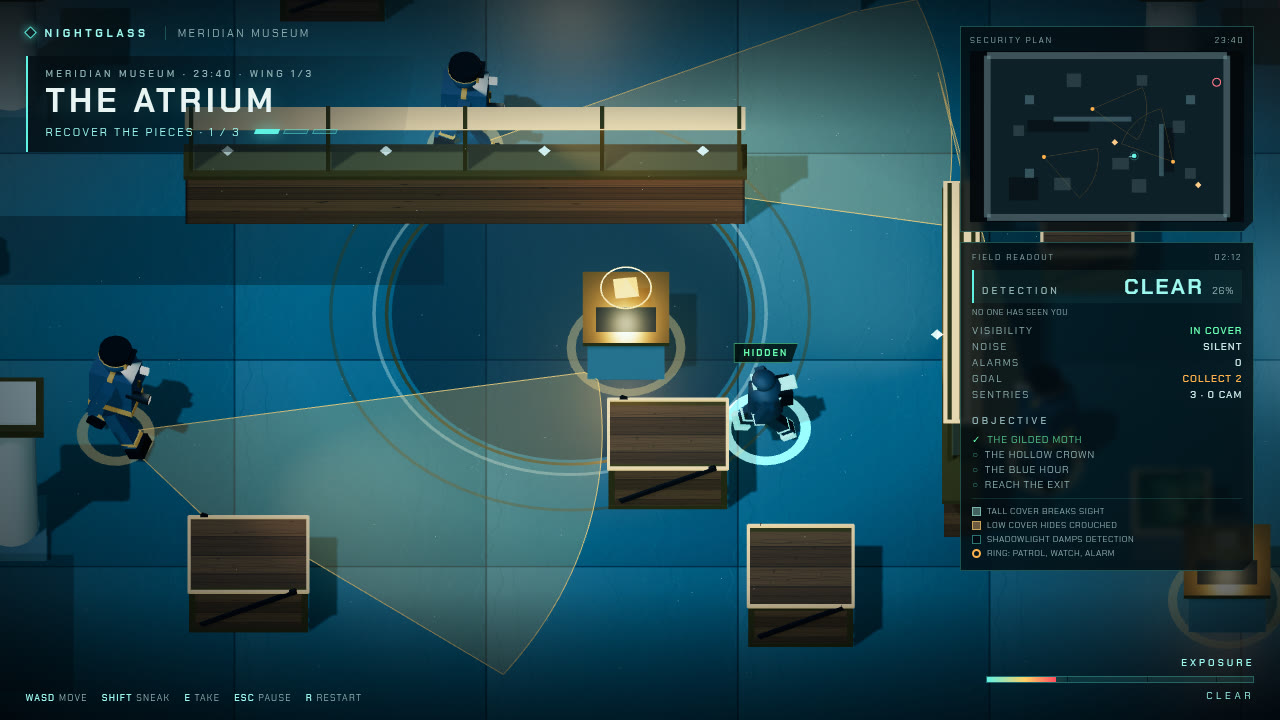
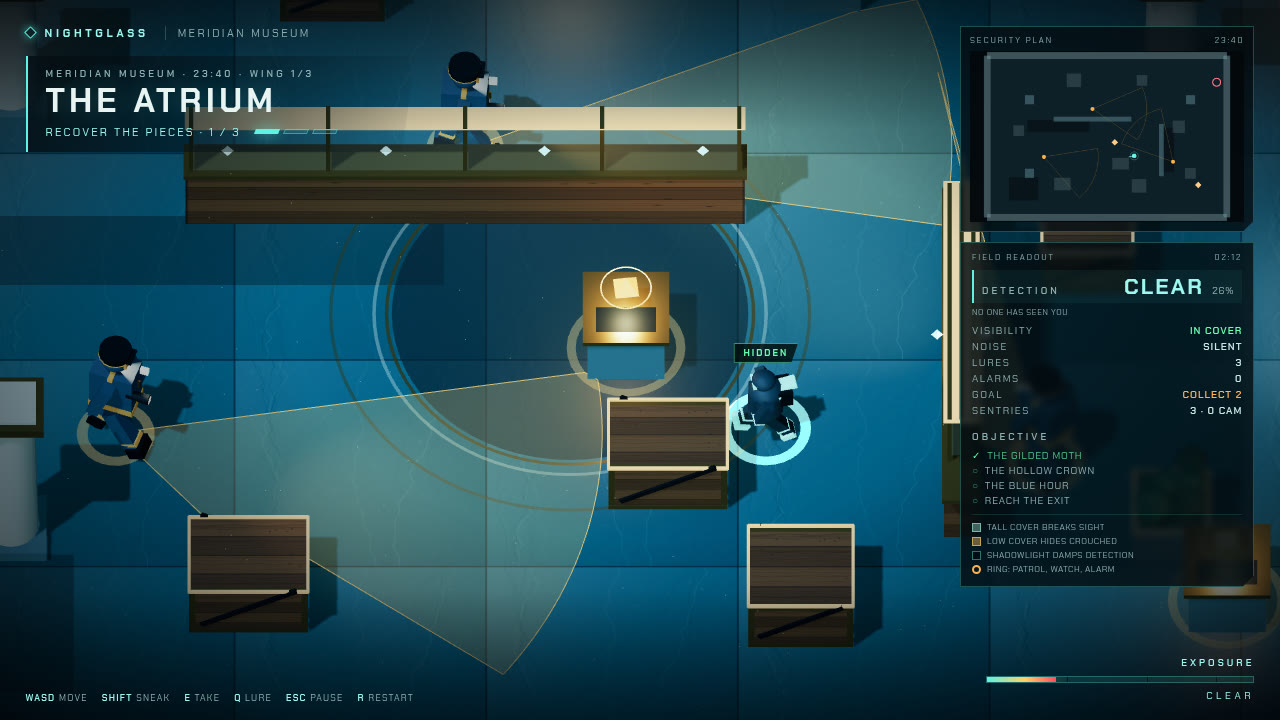
Bring the noise lure into the readable build

Changed region(s): [[0.75, 0.4889, 1.0, 0.825], [0.1875, 0.9472, 0.3125, 0.9778], [0.9062, 0.5194, 0.9688, 0.5806]]

diff --git a/game/src/main.js b/game/src/main.js
@@ -14,6 +14,7 @@ import { Player } from './player.js';
 import { Guard, SecurityCamera } from './guard.js';
 import { Footprints, ShardBursts } from './effects.js';
 import { stageShot } from './shots.js';
+import { LureManager } from './lures.js';
 
 const canvas = document.getElementById('game');
 const renderer = new THREE.WebGLRenderer({ canvas, antialias: true, powerPreference: 'high-performance' });
@@ -38,6 +39,7 @@ let level = null;
 let player = null;
 let guards = [];
 let cameras = [];
+let lures = null;
 let levelIndex = 0;
 let mode = 'title';
 let levelTime = 0;
@@ -68,10 +70,12 @@ function disposeWorld() {
   if (player) player.dispose(scene);
   for (const guard of guards) guard.dispose(scene);
   for (const camera of cameras) camera.dispose(scene);
+  if (lures) lures.dispose();
   if (level) level.dispose();
   player = null;
   guards = [];
   cameras = [];
+  lures = null;
   level = null;
 }
 
@@ -90,7 +94,21 @@ function loadLevel(index) {
     camera.onAlarm = registerCameraAlarm;
     return camera;
   });
+  lures = new LureManager(scene, (x, z) => {
+    audio.lurePing();
+    hud.toast('LURE PING · A GUARD IS COMING TO LOOK', 2.4);
+    for (const guard of guards) {
+      const heard = Math.hypot(guard.position.x - x, guard.position.z - z);
+      if (heard > 6.5) continue;
+      guard.lastSeen = { x, z };
+      guard.awareness = Math.max(guard.awareness, 0.45);
+      guard.investigateTimer = 6.5;
+      if (guard.state === 'patrol' || guard.state === 'suspect') guard.state = 'investigate';
+      guard.paintCone();
+    }
+  });
   level.setExitUnlocked(false);
+  hud.setLures(player.lures);
   levelTime = 0;
   levelAlarms = 0;
   exposure = 0;
@@ -218,6 +236,25 @@ function getCaught() {
   hud.announce('Caught. Try the wing again.');
 }
 
+function throwLure() {
+  if (mode !== 'play' || !level) return;
+  if (player.lures <= 0) {
+    hud.toast('NO LURES LEFT · FINISH THE WING QUIETLY', 1.8);
+    return;
+  }
+  let x = player.position.x + Math.cos(player.facing) * 2.4;
+  let z = player.position.z + Math.sin(player.facing) * 2.4;
+  if (level.collides(x, z, 0.18) || x < 0.5 || z < 0.5 || x > level.data.size.w - 0.5 || z > level.data.size.d - 0.5) {
+    x = player.position.x + Math.cos(player.facing) * 1.1;
+    z = player.position.z + Math.sin(player.facing) * 1.1;
+  }
+  player.lures -= 1;
+  hud.setLures(player.lures);
+  lures.throwAt(x, z);
+  audio.lure();
+  hud.toast('LURE OUT · LISTEN FOR THE PING', 1.8);
+}
+
 function tryInteract() {
   if (mode !== 'play' || !level) return;
   const relic = level.relicNear(player.position.x, player.position.z, 1.45);
@@ -297,6 +334,7 @@ function ambientStep(dt) {
   level.update(dt);
   footprints.update(dt);
   bursts.update(dt);
+  if (lures) lures.update(dt);
 }
 
 function drawMinimap() {
@@ -321,6 +359,7 @@ function updateReadout() {
     concealed,
     moving: player.speed > 0.25,
     crouching: player.crouching,
+    lures: player.lures,
     alarms: levelAlarms,
     time: formatTime(levelTime),
     relicsTaken: taken,
@@ -431,6 +470,7 @@ function onKeyDown(event) {
     if (mode === 'play') pauseGame();
     else if (mode === 'pause') resumeGame();
   } else if (event.code === 'KeyE') tryInteract();
+  else if (event.code === 'KeyQ') throwLure();
   else if (event.code === 'KeyR') {
     if (mode === 'play' || mode === 'pause' || mode === 'caught') restartWing();
   }

diff --git a/game/src/lures.js b/game/src/lures.js
@@ -1,0 +1,73 @@
+// The noise lure: a small brass token thrown ahead. It pings once, and any guard
+// close enough walks over to the sound instead of holding the route. This is the
+// thief's one gadget: three per wing, no alarm unless a guard walks into you.
+
+import * as THREE from '../vendor/three.module.min.js';
+
+const PING_AT = 0.45;
+const LIFE = 2.6;
+
+export class LureManager {
+  constructor(scene, onPing) {
+    this.scene = scene;
+    this.onPing = onPing;
+    this.items = [];
+    this.coinMaterial = new THREE.MeshStandardMaterial({ color: '#ffd166', emissive: '#ffb24d', emissiveIntensity: 1.7, metalness: 0.65, roughness: 0.3 });
+    this.ringMaterial = new THREE.MeshBasicMaterial({ color: '#ffd166', transparent: true, opacity: 0.5, depthWrite: false, side: THREE.DoubleSide });
+  }
+
+  throwAt(x, z) {
+    const group = new THREE.Group();
+    const coin = new THREE.Mesh(new THREE.CylinderGeometry(0.12, 0.12, 0.035, 14), this.coinMaterial);
+    coin.rotation.z = Math.PI / 2;
+    coin.position.y = 0.09;
+    coin.castShadow = true;
+    group.add(coin);
+    const ring = new THREE.Mesh(new THREE.RingGeometry(0.18, 0.24, 28), this.ringMaterial.clone());
+    ring.rotation.x = -Math.PI / 2;
+    ring.position.y = 0.025;
+    group.add(ring);
+    const halo = new THREE.Mesh(new THREE.RingGeometry(0.05, 0.07, 20), this.ringMaterial.clone());
+    halo.rotation.x = -Math.PI / 2;
+    halo.position.y = 0.03;
+    group.add(halo);
+    group.position.set(x, 0, z);
+    this.scene.add(group);
+    this.items.push({ group, coin, ring, halo, time: 0, pinged: false });
+  }
+
+  update(dt) {
+    for (let index = this.items.length - 1; index >= 0; index -= 1) {
+      const item = this.items[index];
+      item.time += dt;
+      item.coin.rotation.y += dt * 4.2;
+      item.coin.position.y = 0.09 + Math.abs(Math.sin(item.time * 6)) * 0.06;
+      const pulse = 1 + Math.sin(item.time * 10) * 0.12;
+      item.ring.scale.setScalar(pulse);
+      if (!item.pinged && item.time >= PING_AT) {
+        item.pinged = true;
+        item.ring.scale.setScalar(1.8);
+        if (this.onPing) this.onPing(item.group.position.x, item.group.position.z);
+      }
+      if (item.time > LIFE) {
+        this.scene.remove(item.group);
+        item.group.traverse((object) => {
+          if (object.geometry) object.geometry.dispose();
+          if (object.material && object.material !== this.coinMaterial) object.material.dispose();
+        });
+        this.items.splice(index, 1);
+      }
+    }
+  }
+
+  dispose() {
+    for (const item of this.items) {
+      this.scene.remove(item.group);
+      item.group.traverse((object) => {
+        if (object.geometry) object.geometry.dispose();
+        if (object.material && object.material !== this.coinMaterial) object.material.dispose();
+      });
+    }
+    this.items = [];
+  }
+}

diff --git a/game/src/hud.js b/game/src/hud.js
@@ -27,6 +27,7 @@ export function createHud() {
   const intelTime = element('intel-time');
   const intelHint = element('intel-hint');
   const intelGoal = element('intel-goal');
+  const intelLures = element('intel-lures');
   const objectives = element('intel-objectives');
   const coverTag = element('cover-tag');
   let toastTimer = 0;
@@ -96,7 +97,12 @@ export function createHud() {
       intelHint.classList.toggle('spot', tier === 'spot');
     },
 
-    setIntel({ concealed, moving, crouching, alarms, time, relicsTaken, total, exitUnlocked }) {
+    setLures(count) {
+      intelLures.textContent = String(count);
+      intelLures.classList.toggle('exposed', count === 0);
+    },
+
+    setIntel({ concealed, moving, crouching, lures, alarms, time, relicsTaken, total, exitUnlocked }) {
       intelGoal.textContent = exitUnlocked ? 'EXIT OPEN' : `COLLECT ${total - relicsTaken}`;
       intelGoal.classList.toggle('hidden', exitUnlocked);
       intelGoal.classList.toggle('exposed', !exitUnlocked);
@@ -104,6 +110,7 @@ export function createHud() {
       intelVisibility.classList.toggle('hidden', concealed);
       intelVisibility.classList.toggle('exposed', !concealed);
       intelNoise.textContent = crouching ? 'SILENT' : moving ? 'FOOTSTEPS' : 'STILL';
+      intelLures.textContent = String(lures);
       intelAlarms.textContent = String(alarms);
       intelTime.textContent = time;
       const entries = objectives.children;

diff --git a/game/index.html b/game/index.html
@@ -44,6 +44,7 @@
         <div class="intel-rows">
           <div><span>VISIBILITY</span><b id="intel-visibility">IN COVER</b></div>
           <div><span>NOISE</span><b id="intel-noise">SILENT</b></div>
+          <div><span>LURES</span><b id="intel-lures">3</b></div>
           <div><span>ALARMS</span><b id="intel-alarms">0</b></div>
           <div><span>GOAL</span><b id="intel-goal">COLLECT 3</b></div>
           <div><span>SENTRIES</span><b id="intel-sentries">0 · 0 CAM</b></div>
@@ -77,6 +78,7 @@
     <span><b>WASD</b> move</span>
     <span><b>SHIFT</b> sneak</span>
     <span><b>E</b> take</span>
+    <span><b>Q</b> lure</span>
     <span><b>ESC</b> pause</span>
     <span><b>R</b> restart</span>
   </div>
@@ -100,6 +102,7 @@
         <div><b>WASD</b><span>Move through the galleries</span></div>
         <div><b>SHIFT</b><span>Sneak: slower, quieter, harder to see</span></div>
         <div><b>E</b><span>Take a relic or enter the exit</span></div>
+        <div><b>Q</b><span>Throw a noise lure; three per wing</span></div>
         <div><b>ESC</b><span>Pause · <b>R</b> restart the wing</span></div>
         <p>Guards see along their amber cones. Break the line of sight behind tall cover, crouch behind low crates, and keep out of the pale pools of shadowlight. If a guard fills the alarm, run — the hunt cools after a while.</p>
       </div>

diff --git a/game/src/guard.js b/game/src/guard.js
@@ -98,6 +98,7 @@ export class Guard {
     this.lastSeen = null;
     this.alarmTimer = 0;
     this.searchTimer = 0;
+    this.investigateTimer = 0;
     this.phase = index * 1.7;
     this.stepPhase = 0;
     this.moveSpeed = 0;
@@ -191,6 +192,15 @@ export class Guard {
         }
       }
       if (this.alarmTimer <= 0) this.state = 'return';
+    } else if (this.state === 'investigate') {
+      this.investigateTimer -= dt;
+      if (this.lastSeen && distance(this.position.x, this.position.z, this.lastSeen.x, this.lastSeen.z) > 0.5) {
+        this.walkToward(this.lastSeen.x, this.lastSeen.z, GUARD.patrolSpeed * 1.6, dt);
+      } else {
+        this.state = 'search';
+        this.searchTimer = GUARD.searchTime;
+      }
+      if (this.investigateTimer <= 0) this.state = 'return';
     } else if (this.state === 'search') {
       this.searchTimer -= dt;
       this.facing = turnToward(this.facing, this.facing + Math.sin(this.phase + this.searchTimer * 2.2) * 0.9, 2.4 * dt);

diff --git a/game/src/audio.js b/game/src/audio.js
@@ -154,6 +154,15 @@ export class AudioEngine {
     this.tone(880, 0.05, { type: 'square', volume: 0.03 });
   }
 
+  lure() {
+    this.noise(0.12, 0.035, 1400);
+  }
+
+  lurePing() {
+    this.tone(1180, 0.22, { type: 'triangle', volume: 0.07, slide: 1560 });
+    setTimeout(() => this.tone(880, 0.18, { type: 'sine', volume: 0.05 }), 80);
+  }
+
   heartbeat(dt, intensity) {
     this.heartbeatRate = intensity;
     if (intensity <= 0.05) return;

diff --git a/game/src/player.js b/game/src/player.js
@@ -18,6 +18,7 @@ export class Player {
     this.stepPhase = 0;
     this.speed = 0;
     this.noise = 0;
+    this.lures = 3;
     this.radius = PLAYER.radius;
     this.stepTimer = 0;
     this.concealed = false;

diff --git a/README.md b/README.md
@@ -16,13 +16,14 @@ Then open <http://localhost:8080>. The game itself is plain static files under `
 
 ## The heist
 
-Three wings — the Atrium, the Long Gallery and the Vault — each with its own patrols, cover and security cameras. Guards carry flashlight cones stopped by walls and cover. Crouching shrinks your silhouette, quiets your footsteps and lets a low crate hide you; tall plinths, shelves and display cases hide you standing. If a cone fills, the alarm spreads: break line of sight, wait for the search to cool, and the patrols return to their rounds.
+Three wings — the Atrium, the Long Gallery and the Vault — each with its own patrols, cover and security cameras. Guards carry flashlight cones stopped by walls and cover. Crouching shrinks your silhouette, quiets your footsteps and lets a low crate hide you; tall plinths, shelves and display cases hide you standing. A thrown noise lure pulls a patrol off its round to investigate, and the field readout tracks detection, noise, lures and the guard rings. If a cone fills, the alarm spreads: break line of sight, wait for the search to cool, and the patrols return to their rounds.
 
 | Key | Action |
 | --- | --- |
 | `WASD` / arrows | Move |
 | `Shift` | Sneak |
 | `E` | Take a relic, or enter the exit |
+| `Q` | Throw a noise lure (three per wing) |
 | `Esc` | Pause |
 | `R` | Restart the wing |
 
@@ -34,6 +35,7 @@ Take all three relics in a wing to unlock its exit. Alarm-raising guards, camera
 - `game/src/level-data.js` — three heists as data: walls, cover, relics, patrol routes, cameras.
 - `game/src/level.js`, `vision.js`, `guard.js`, `player.js` — geometry, line-of-sight cones, patrol/alarm behaviour and movement.
 - `game/src/models.js`, `materials.js` — every wall, figure, relic and texture, built from code.
+- `game/src/lures.js` — the thrown noise lure and its ping.
 - `game/src/hud.js`, `effects.js`, `audio.js`, `camera.js` — overlay, feedback, WebAudio and the isometric camera.
 - `game/src/main.js`, `shots.js` — screen flow, fixed-step loop and the screenshot staging.
 - `game/vendor/` — three.js, vendored and minified, so the game runs offline.
